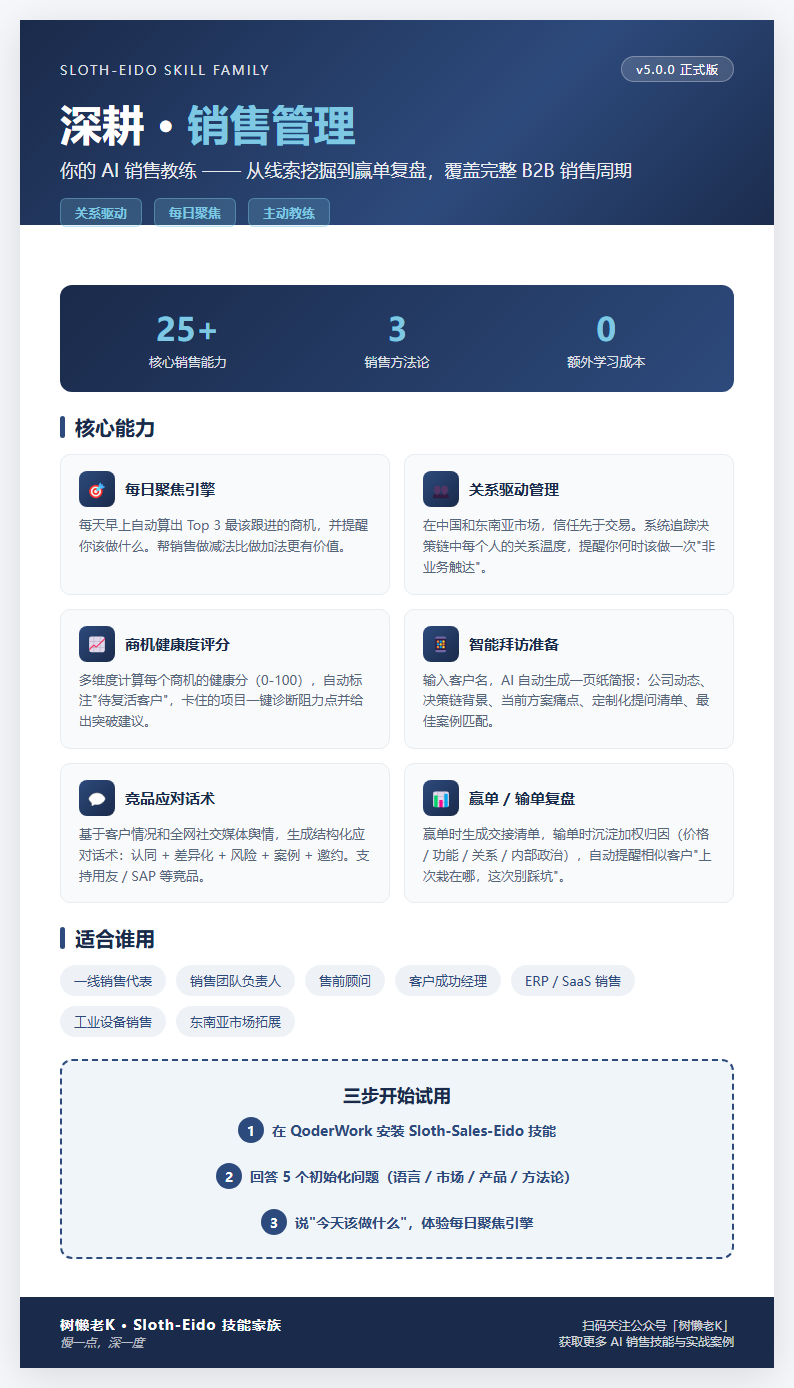
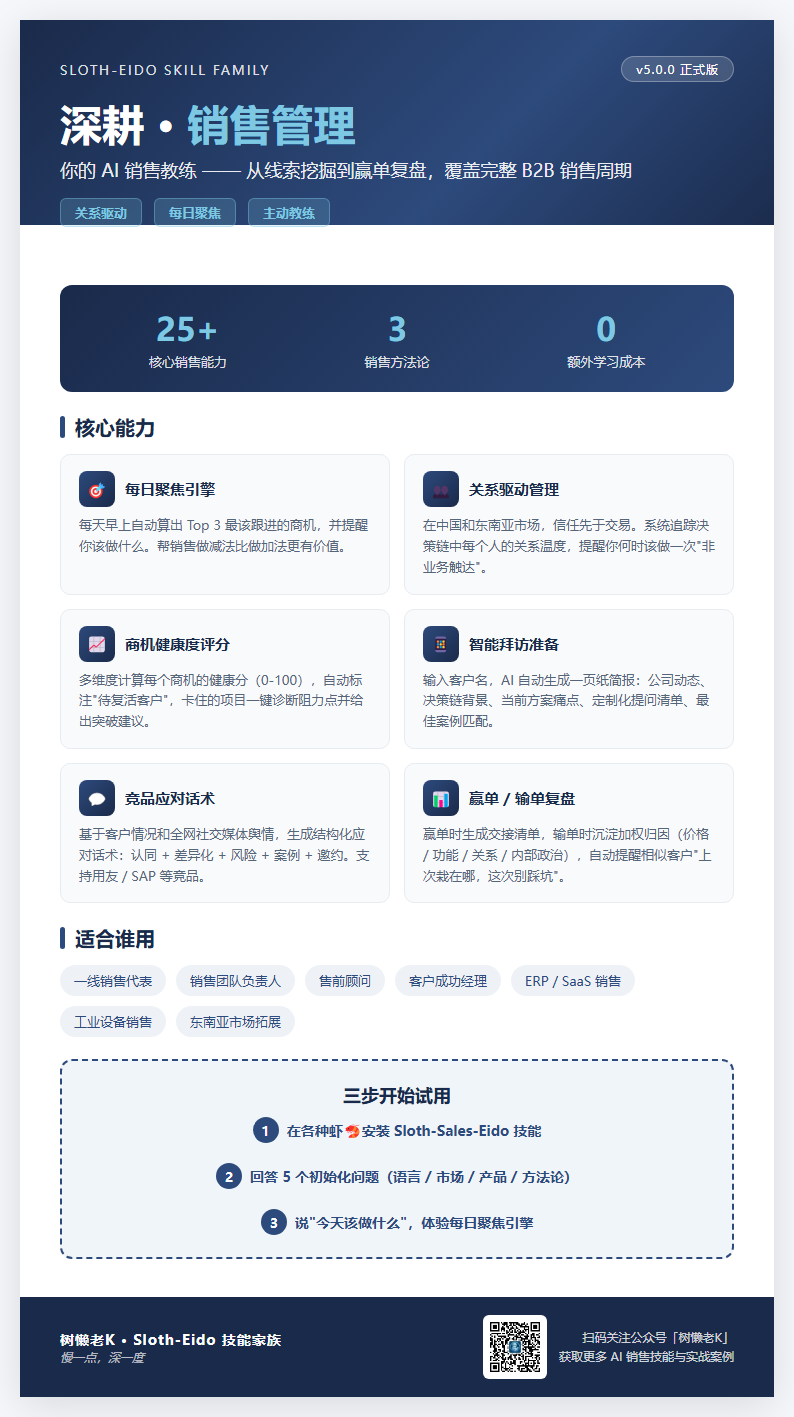
Update poster: change install platform and add QR code
- Step 1 CTA: "QoderWork" -> "各种虾🦐"
- Footer: add actual QR code image (assets/qrcode.jpg)
- Re-capture preview screenshot

🤖 Generated with [Qoder][https://qoder.com]

diff --git a/poster-sales-eido.html b/poster-sales-eido.html
@@ -267,10 +267,30 @@
     opacity: 0.7;
     font-style: italic;
   }
+  .footer-right {
+    display: flex;
+    align-items: center;
+    gap: 12px;
+  }
+  .footer-qr {
+    width: 64px;
+    height: 64px;
+    border-radius: 6px;
+    background: #fff;
+    padding: 3px;
+    flex-shrink: 0;
+  }
+  .footer-qr img {
+    width: 100%;
+    height: 100%;
+    object-fit: cover;
+    border-radius: 4px;
+  }
   .footer-contact {
     font-size: 12px;
     opacity: 0.8;
     text-align: right;
+    line-height: 1.6;
   }
 
   /* Print */
@@ -380,7 +400,7 @@
     <div class="cta-section">
       <div class="cta-title">三步开始试用</div>
       <div class="cta-steps">
-        <div class="cta-step"><span class="cta-step-num">1</span>在 QoderWork 安装 Sloth-Sales-Eido 技能</div>
+        <div class="cta-step"><span class="cta-step-num">1</span>在各种虾🦐安装 Sloth-Sales-Eido 技能</div>
         <div class="cta-step"><span class="cta-step-num">2</span>回答 5 个初始化问题（语言 / 市场 / 产品 / 方法论）</div>
         <div class="cta-step"><span class="cta-step-num">3</span>说"今天该做什么"，体验每日聚焦引擎</div>
       </div>
@@ -394,9 +414,14 @@
       <div class="footer-brand">树懒老K · Sloth-Eido 技能家族</div>
       <div class="footer-slogan">慢一点，深一度</div>
     </div>
-    <div class="footer-contact">
-      扫码关注公众号「树懒老K」<br>
-      获取更多 AI 销售技能与实战案例
+    <div class="footer-right">
+      <div class="footer-qr">
+        <img src="assets/qrcode.jpg" alt="公众号二维码">
+      </div>
+      <div class="footer-contact">
+        扫码关注公众号「树懒老K」<br>
+        获取更多 AI 销售技能与实战案例
+      </div>
     </div>
   </div>
 </div>
